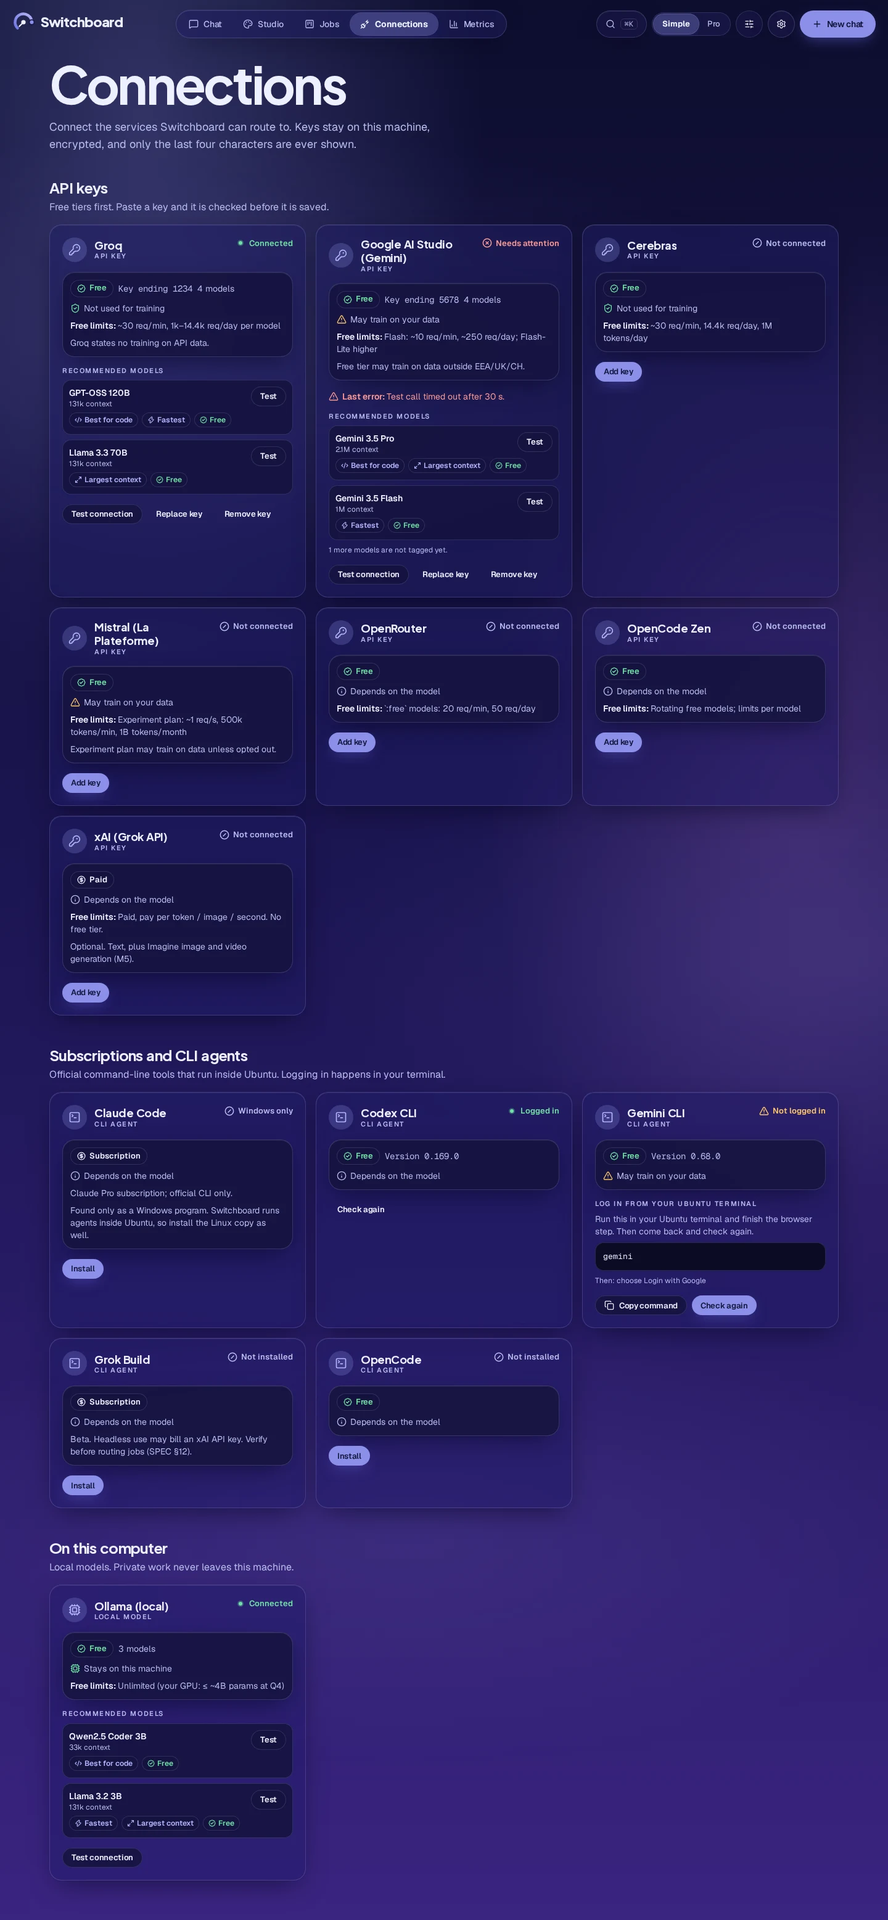
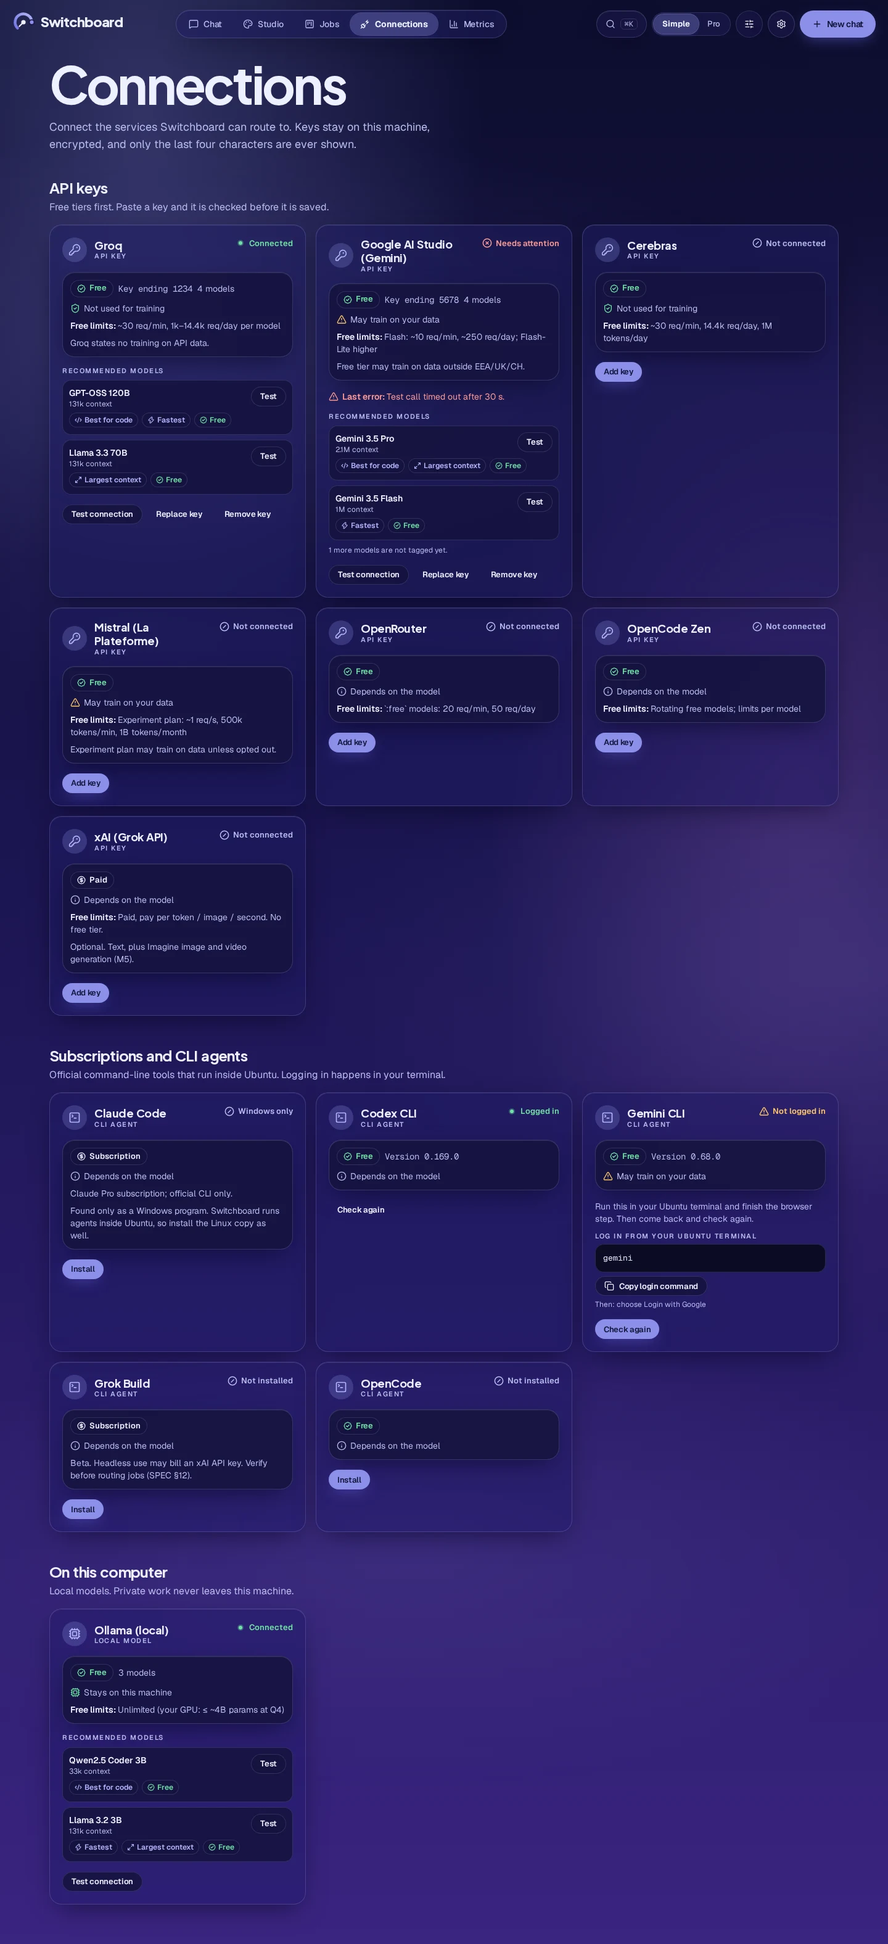
M1b follow-up: install progress UI states, tests, gallery section, baselines, docs
- gallery install-progress section (running/success/failure) + visual baselines; regenerated connections/toast/skeleton
- Playwright: stages, one progress bar, collapsed Details, success + Done, PATH step, failure tail
- gallery-only kit components lazy-loaded to stay under the JS budget
- docs/m1a.md (opencode status verified), docs/m1b.md (log format, PATH), PROGRESS.md

diff --git a/apps/portal/tests/connections.spec.ts b/apps/portal/tests/connections.spec.ts
@@ -70,16 +70,63 @@ test("install OpenCode through the UI with confirmation, then see the login step
   await expect(page.getByRole("article", { name: "OpenCode", includeHidden: true }).getByText("Not installed")).toBeVisible();
 
   await dialog.getByRole("button", { name: "Install OpenCode" }).click();
-  const log = dialog.getByRole("log", { name: "Install log" });
-  await expect(log).toContainText("Installing opencode 1.19.6");
-  await expect(dialog.getByText("OpenCode is installed.")).toBeVisible();
-  await dialog.getByRole("button", { name: "Close" }).first().click();
 
-  // The card flipped, and the login step (a terminal command, never an in-portal OAuth) is shown.
+  // Stages above one progress bar; the raw log is tucked into a collapsed "Details".
+  const stages = dialog.getByRole("list", { name: "Install stages" });
+  await expect(stages.getByRole("listitem")).toHaveText(["Downloading", "Installing", "Verifying", "Done"]);
+  await expect(dialog.getByRole("progressbar", { name: "Download progress" })).toBeVisible();
+  await expect(dialog.locator("details")).not.toHaveAttribute("open", "");
+  await expect(dialog.getByRole("button", { name: "Stop install" })).toBeVisible();
+
+  // Success: a check, the version, a "Done" button (no more "Stop install") and the login step.
+  await expect(dialog.getByText("OpenCode 1.19.6 installed")).toBeVisible();
+  await expect(dialog.getByRole("button", { name: "Stop install" })).toHaveCount(0);
+  await expect(dialog.getByRole("progressbar")).toHaveCount(0);
+  await expect(dialog.getByRole("heading", { name: "Log in next" })).toBeVisible();
+  await expect(dialog.getByText("opencode auth login", { exact: true }).first()).toBeVisible();
+
+  // opencode lands off a new terminal's PATH: the one-line fix comes first, then login, then the full path.
+  await expect(dialog.getByText("1. Add opencode to your PATH")).toBeVisible();
+  await expect(dialog.getByText(`echo 'export PATH="$HOME/.opencode/bin:$PATH"' >> ~/.bashrc && source ~/.bashrc`)).toBeVisible();
+  await expect(dialog.getByText("~/.opencode/bin/opencode auth login", { exact: true })).toBeVisible();
+  for (const name of ["Copy PATH command", "Copy login command", "Copy full-path command"]) {
+    await expect(dialog.getByRole("button", { name })).toBeVisible();
+  }
+
+  // Details holds the raw log, with the progress redraws collapsed into a single line.
+  await dialog.locator("summary").filter({ hasText: "Details" }).click();
+  const log = dialog.getByRole("log", { name: "Install log" });
+  await expect(log).toContainText("Verifying checksum… ok");
+  const text = (await log.innerText()).split("\n");
+  expect(text.filter((l) => l.includes("%"))).toHaveLength(1);
+
+  await dialog.getByRole("button", { name: "Done" }).click();
+
+  // The card flipped, and shows the same login steps (a terminal command, never an in-portal OAuth).
   await expect(c.getByText("Not logged in")).toBeVisible();
-  await expect(c.getByText("opencode auth login")).toBeVisible();
+  await expect(c.getByText("opencode auth login", { exact: true }).first()).toBeVisible();
   await c.getByRole("button", { name: "Check again" }).click();
   await expect(c.getByText(/Still not logged in/)).toBeVisible();
+});
+
+test("a failed install shows an error summary and the last 20 lines", async ({ page }) => {
+  await page.goto("/connections");
+  await ready(page);
+  await card(page, "Claude Code").getByRole("button", { name: "Install" }).click();
+  const dialog = page.getByRole("dialog", { name: "Install Claude Code" });
+  await dialog.getByRole("button", { name: "Install Claude Code" }).click();
+
+  const alert = dialog.getByRole("alert");
+  await expect(alert).toContainText("The install failed");
+  await expect(alert).toContainText("Install failed: could not download claude 2.1.311");
+  await expect(alert.getByText("Last 20 lines")).toBeVisible();
+  const tail = (await alert.locator("pre").innerText()).split("\n");
+  expect(tail).toHaveLength(20);
+  expect(tail.at(-1)).toContain("Install failed");
+  await expect(dialog.getByText("OpenCode 1.19.6 installed")).toHaveCount(0);
+  await expect(dialog.getByRole("button", { name: "Review again" })).toBeVisible();
+  await dialog.getByRole("button", { name: "Close" }).first().click();
+  await expect(card(page, "Claude Code").getByText("Windows only")).toBeVisible(); // nothing changed
 });
 
 test("the browser never receives the admin token", async ({ page }) => {

diff --git a/apps/portal/src/app/dev/components/Gallery.tsx b/apps/portal/src/app/dev/components/Gallery.tsx
@@ -3,13 +3,10 @@
 import * as React from "react";
 import dynamic from "next/dynamic";
 import { Bot } from "lucide-react";
+import { ProviderCard } from "@/components/kit/ProviderCard";
 import { GlassPanel } from "@/components/kit/GlassPanel";
 import { PillTabs } from "@/components/kit/PillTabs";
 import { Dial } from "@/components/kit/Dial";
-import { StatCard } from "@/components/kit/StatCard";
-import { RouteChip } from "@/components/kit/RouteChip";
-import { ProviderCard } from "@/components/kit/ProviderCard";
-import { JobCard } from "@/components/kit/JobCard";
 import { CostBadge } from "@/components/kit/CostBadge";
 import { ExplainPopover } from "@/components/kit/ExplainPopover";
 import { Composer } from "@/components/kit/Composer";
@@ -18,8 +15,15 @@ import { Skeleton } from "@/components/kit/Skeleton";
 import { EmptyState } from "@/components/kit/EmptyState";
 import { StatusBadge } from "@/components/kit/StatusBadge";
 import { Logo } from "@/components/kit/Logo";
+// Gallery-only components load on demand so the gallery stays under the first-load JS budget.
+const StatCard = dynamic(() => import("@/components/kit/StatCard").then((m) => m.StatCard));
+const RouteChip = dynamic(() => import("@/components/kit/RouteChip").then((m) => m.RouteChip));
+const JobCard = dynamic(() => import("@/components/kit/JobCard").then((m) => m.JobCard));
 // Below the fold and only used here (and in the wizard): keeps it out of the gallery's first-load JS.
 const ColumnsArt = dynamic(() => import("@/components/kit/ColumnsArt").then((m) => m.ColumnsArt));
+// Only used here and in the install dialog: keep it (and LoginSteps) out of the gallery's first-load JS.
+const InstallProgress = dynamic(() => import("@/components/connections/InstallProgress").then((m) => m.InstallProgress));
+const LoginSteps = dynamic(() => import("@/components/connections/LoginSteps").then((m) => m.LoginSteps));
 import { Button } from "@/components/ui/button";
 import { strings, t } from "@/i18n/strings";
 
@@ -210,6 +214,52 @@ export function Gallery() {
               <Composer state={s} defaultValue={s === "empty" ? "" : g.composerText} disabledReason={t("home.readOnlyNote")} />
             </Cell>
           ))}
+        </div>
+      </Section>
+
+      <Section id="install-progress" title={g.sections.installProgress}>
+        <div className="grid gap-(--gap) xl:grid-cols-3">
+          <Cell label={g.installRunning}>
+            <GlassPanel tone="strong">
+              <InstallProgress
+                name="OpenCode"
+                version="1.19.6"
+                phase="running"
+                entries={[
+                  { t: "Downloading opencode 1.19.6", r: false, p: null },
+                  { t: `${"#".repeat(45)}${" ".repeat(27)} 62.0%`, r: true, p: 62 },
+                ]}
+              />
+            </GlassPanel>
+          </Cell>
+          <Cell label={g.installSuccess}>
+            <GlassPanel tone="strong">
+              <InstallProgress
+                name="OpenCode"
+                version="1.19.6"
+                phase="ok"
+                entries={g.installLog.split("\n").map((t) => ({ t, r: false, p: null }))}
+                next={
+                  <LoginSteps
+                    command="opencode auth login"
+                    binPath="~/.opencode/bin/opencode"
+                    binDir="~/.opencode/bin"
+                    onUserPath={false}
+                  />
+                }
+              />
+            </GlassPanel>
+          </Cell>
+          <Cell label={g.installFailure}>
+            <GlassPanel tone="strong">
+              <InstallProgress
+                name="OpenCode"
+                version="1.19.6"
+                phase="failed"
+                entries={g.installFailLog.split("\n").map((t) => ({ t, r: false, p: null }))}
+              />
+            </GlassPanel>
+          </Cell>
         </div>
       </Section>
 

diff --git a/apps/portal/tests/a11y.spec.ts b/apps/portal/tests/a11y.spec.ts
@@ -5,8 +5,11 @@ import { ready } from "./helpers";
 const schemes = ["light", "dark"] as const;
 const pages = ["/", "/dev/components", "/chat", "/settings", "/connections", "/welcome?step=1", "/welcome?step=2", "/welcome?step=3", "/welcome?step=4", "/welcome?step=5"];
 
-async function audit(page: Page, label: string) {
-  const results = await new AxeBuilder({ page })
+/** `scope`: audit only this part of the page (a modal: the page behind it is inert and dimmed on purpose). */
+async function audit(page: Page, label: string, scope?: string) {
+  const builder = new AxeBuilder({ page });
+  if (scope) builder.include(scope);
+  const results = await builder
     .withTags(["wcag2a", "wcag2aa", "wcag21a", "wcag21aa", "wcag22aa", "best-practice"])
     .analyze();
   const bad = results.violations.filter((v) => v.impact === "serious" || v.impact === "critical");
@@ -60,7 +63,7 @@ for (const scheme of schemes) {
       await ready(page);
       await page.getByRole("article", { name: "Grok Build" }).getByRole("button", { name: "Install" }).click();
       await expect(page.getByRole("dialog").getByText("Never uses sudo.")).toBeVisible();
-      await audit(page, `install dialog ${scheme}`);
+      await audit(page, `install dialog ${scheme}`, '[role="dialog"]');
     });
 
     test("appearance menu and explain popover open", async ({ page }) => {

diff --git a/apps/portal/tests/visual.spec.ts b/apps/portal/tests/visual.spec.ts
@@ -15,6 +15,7 @@ const sections = [
   "status-badge",
   "explain-popover",
   "composer",
+  "install-progress",
   "toast",
   "skeleton",
   "empty-state",

diff --git a/docs/PROGRESS.md b/docs/PROGRESS.md
@@ -124,8 +124,16 @@
 - **Wizard** (`/welcome`): name + Simple/Pro → goals (incl. Writing/content) → connect only needed providers → preset → finish with a "Try it" placeholder; skippable, resumable on any device (state in `system_meta`, `GET/PUT /onboarding`); first run redirects `/` to the wizard. Goal → provider mapping is in `config/providers.yaml` (`goals:`); `xai` added as a paid API-key provider; claude-code, grok-build and xai are labelled paid.
 - **Home:** four quick-start chips fill the composer (route in M2). **Carry-overs done:** Dial loading is a shimmering ring; ColumnsArt redrawn with theme-token fills; gallery user-facing text moved to `strings.ts`; `cacheComponents` re-evaluated and left **off** (reasons in `next.config.ts` and docs/m1b.md); dev/start bind `127.0.0.1`.
 - **Gemini:** swept the catalog with `scripts/gemini-sweep.py` (details in docs/m1b.md). The old pin `gemini-3.5-flash` answered 0/3 (timeout, 503s). `smart-free` is now pinned to `gemini-3.1-flash-lite` (3/3, ~1.2 s, not a preview; `gemini-3-flash-preview` also went 3/3 if you want a stronger model), with `num_retries: 0` so fallback to local takes one 30 s timeout instead of two. Verified live. Three samples per model: a spot check.
-- Checks: router 45 pytest (15 new), hostprobe 36 unittest (21 new), ruff clean; portal 24 unit, 96 Playwright (axe serious/critical none on `/connections`, every wizard step, key form and install dialog, both themes; visual baselines regenerated, 46 now); Lighthouse (mobile profile) perf 98–99, a11y 100, best-practices 100 on gallery, Home, Connections and a wizard step in both themes; first-load JS 190–195 KB gzip on product routes (`/dev/components` 199.9 KB, at the edge of the 200 KB budget).
+- Checks: router 45 pytest (15 new), hostprobe 36 unittest (21 new; 52 after the follow-up below), ruff clean; portal 24 unit (33 after the follow-up), 96 Playwright (99 after) (axe serious/critical none on `/connections`, every wizard step, key form and install dialog, both themes; visual baselines regenerated, 46 now); Lighthouse (mobile profile) perf 98–99, a11y 100, best-practices 100 on gallery, Home, Connections and a wizard step in both themes; first-load JS 190–195 KB gzip on product routes (`/dev/components` 199.9 KB, at the edge of the 200 KB budget).
 - Screenshots (fixture data, no real key suffixes): `docs/screens/connections-{day,dusk}.webp` and `welcome-{1..5}-{day,dusk}.webp`.
+
+## M1b follow-up: login-status verification, install log UX, PATH
+
+- **Login-status commands (A):** OpenCode 1.19.6 (installed through the portal) is the only CLI installed in WSL, so the only one verified. Real `opencode auth list` prints `1 credentials` / `0 credentials` with ANSI codes and box-drawing characters even under `NO_COLOR=1`; the existing parser is correct and now has tests built from the recorded bytes (docs/m1a.md table updated). claude, codex and gemini exist only as Windows copies and grok isn't installed, so `claude auth status`, `codex login status` (already confirmed via `--help`), the gemini and grok credential-file paths stay unverified until each is installed in WSL.
+- **Install log (B):** root cause of one-line-per-redraw: Python text mode turned every `\r` into `\n`. hostprobe now reads bytes and emits `{t, r, p}` entries (redraws replace in place, ANSI stripped, percent parsed, redraws throttled). The dialog shows stages (Downloading → Installing → Verifying → Done), one progress bar, and the raw log in a collapsed Details section; success shows "OpenCode 1.19.6 installed", the button changes from Stop install to Done, the card refreshes and **Log in next** appears; failure shows an error summary and the last 20 lines. Tests use a recorded real `curl -#` capture. Gallery section `install-progress` (running / success / failure) gives the visual baselines; Connections, toast and skeleton baselines regenerated (login layout and a new gallery section above them).
+- **PATH (C):** hostprobe reports `bin_path`, `bin_dir` and `on_user_path` (one fixed `bash -lic` call, home-relative paths). When a new terminal can't find the binary, the dialog and cards show a one-line PATH fix with Copy, then the login command, then the login command by full path. Not built: appending to `~/.bashrc` from the portal with a confirmation (another hostprobe write action); the copyable line is the only path. Your OpenCode reports on-path because `~/.bashrc` line 122 already adds it.
+- Checks: hostprobe 52 unittest, router 45 pytest, ruff clean; portal 33 unit, 99 Playwright (axe, both themes; 48 visual baselines, stable over repeated runs), eslint clean; Lighthouse perf 97-100 / a11y 99-100 / best-practices 100; first-load JS 190-195 KB on product routes, `/dev/components` 199.4 KB (gallery-only kit components are now lazy-loaded to stay under the cap; it is still the closest to the 200 KB budget). The install-dialog axe test audits the dialog itself, because axe scores the page behind the dimmed modal overlay as low-contrast (the page is audited un-dimmed elsewhere).
+- Still open: verify the other CLIs' status commands as they're installed (see "Carry-over to M2").
 
 ## Carry-over to M2
 

diff --git a/docs/m1b.md b/docs/m1b.md
@@ -38,7 +38,7 @@ cd apps/portal
 npm run build
 npx playwright test               # axe (both themes), shell, connections, wizard, visual baselines
 npm run test:bundle               # the token check above
-npm test                          # unit: recommender, goal mapping, design tokens
+npm test                          # unit: recommender, goal mapping, install-log parsing, design tokens
 npm run budget                    # < 200 KB gzip first-load JS per route
 PORTAL_DATA=fixture npx next start -H 127.0.0.1 -p 3210 &  npm run lighthouse && npm run screens
 ```
@@ -62,7 +62,9 @@ Untagged models never get a badge and are counted ("N more models are not tagged
 
 **CLI cards:** installed / Windows-only / not installed / logged in / unknown (hostprobe down).
 
-- **Install** → the router asks hostprobe for a *plan* → the dialog shows the source URL (and official docs link), pinned version, the installer's SHA-256, the exact commands, what it changes, and "never uses sudo" → **Install** only after you confirm → streamed log → the card flips. Nothing runs before the confirm click.
+- **Install** → the router asks hostprobe for a *plan* → the dialog shows the source URL (and official docs link), pinned version, the installer's SHA-256, the exact commands, what it changes, and "never uses sudo" → **Install** only after you confirm → progress → the card flips. Nothing runs before the confirm click.
+- **Progress, not a wall of text:** stages (Downloading → Installing → Verifying → Done), **one** progress bar with a percentage while a download is live, and the raw output in a collapsed **Details** section. On success: a check and "OpenCode 1.19.6 installed", the button changes from **Stop install** to **Done**, the card refreshes, and a **Log in next** step appears. On failure: an error summary plus the last 20 lines, with **Review again**.
+- **PATH:** installers that don't edit your shell profile (OpenCode is run with `--no-modify-path`) leave the binary where a new terminal can't find it ("command not found"). After an install hostprobe reports the binary's directory and whether a new terminal's PATH contains it. If not, **Log in next** (and the card) show, in order: a one-line fix to copy (`echo 'export PATH="$HOME/.opencode/bin:$PATH"' >> ~/.bashrc && source ~/.bashrc`), the login command, and the login command by full path as a fallback. The portal never edits `~/.bashrc` itself; offering that with a confirmation would add another write action to hostprobe, so it is deliberately not done.
 - **Log in** is never run by the portal. The card shows the exact command for your Ubuntu terminal (with **Copy command**) and **Check again** (a fresh probe that bypasses hostprobe's 30 s cache).
 
 ## Install: how it is kept safe
@@ -77,6 +79,10 @@ hostprobe (`services/hostprobe/hostprobe.py`) gained the only actions it has:
 | `POST /install/jobs/{id}/cancel` | stops the process group |
 
 No request field reaches a command: the only input is a `plan_id` that selects a stored plan. Never a shell, never `curl | bash`. A `sudo` shim first on PATH fails any `sudo` call; the service refuses to install as root; the PATH is the clean Linux one (no `/mnt/*`); output is stripped of control characters and token-shaped strings; 10-minute limit. Tests cover single-use plans, expiry, wrong-CLI plan ids, concurrent installs, cancel, timeout, sudo, root refusal, npm prefix outside `$HOME`, and that every table entry is `https`, pinned, host-listed and free of `sudo`/`unsafe-perm`.
+
+### Install log format
+
+hostprobe reads the installer's output as **bytes** and splits on `\r` and `\n` itself. (Python's text mode turns every `\r` into `\n`, which is why curl's progress bar used to print one new line per redraw.) Each SSE `log` event is `{t, r, p}`: `t` the text (ANSI and control characters stripped, token-shaped strings masked), `r` true when the line was redrawn (the next entry replaces it, as a terminal would), `p` the download percentage when the line is progress output (`#### 45.2%` or curl's table row). Redraws are throttled to a new whole percent or 250 ms, so a large download can't flood the log. The log is append-only, so a reconnecting browser resumes by index. The portal collapses redraws (`lib/install-log.ts`), derives the stage and percentage from the entries, and keeps tests against a recorded real `curl -#` capture (`services/hostprobe/tests/fixtures/curl_progress.bin`, assembled into `apps/portal/src/lib/fixtures/install-log.entries.json`).
 
 ### Install methods (verified 2026-11-17, from each installer script)
 

diff --git a/docs/m1a.md b/docs/m1a.md
@@ -137,7 +137,7 @@ curl -s -X POST -H "$A" $R/catalog/refresh
 The router runs in Docker and can't execute WSL binaries, so a small stdlib-only service in WSL does it. Rules (M1a review):
 
 - **Allowlist only.** The argv for each CLI (`--version` plus one auth-status command) is hard-coded in `services/hostprobe/hostprobe.py`. No request data reaches a command, and nothing runs through a shell. M1a had only `GET /cli` and `GET /health`; M1b adds the install endpoints ([docs/m1b.md](m1b.md)).
-- **Minimal output.** It returns `installed`, `version`, `logged_in`, `windows_only` and `login_method`. Command output is reduced to a version string or a boolean, then discarded. Credential files are checked with `stat` only; they are never opened.
+- **Minimal output.** It returns `installed`, `version`, `logged_in`, `windows_only` and `login_method`, plus (M1b) `bin_path`, `bin_dir` (home-relative, e.g. `~/.opencode/bin`) and `on_user_path` (whether a new terminal's PATH contains that directory, from one fixed `bash -lic` call). Command output is reduced to a version string or a boolean, then discarded. Credential files are checked with `stat` only; they are never opened.
 - **Auth and limits.** Every request needs `X-Probe-Token`, compared in constant time. The token is in `deploy/.env`; hostprobe reads only that one variable from the file. It listens on `127.0.0.1` only. Each command has a 5 s timeout. Results are cached for 30 s. Rate limits: 6 probes/min, 60 requests/min.
 - **Resolution.** Binaries are looked up on a clean Linux PATH (nvm bin, `~/.local/bin`, `~/.npm-global/bin`, `~/.bun/bin`, `~/.opencode/bin`, `~/.grok/bin`, `/usr/local/bin`, `/usr/bin`), never under `/mnt/*`. A CLI found only as a Windows install is reported as `windows_only`.
 - **Router side.** If hostprobe is down, the router stays healthy and CLI rows show `unknown`.
@@ -149,7 +149,7 @@ The router runs in Docker and can't execute WSL binaries, so a small stdlib-only
 | codex | `codex --version` | `codex login status` ("Logged in") | Yes, `codex login --help` lists `status` |
 | gemini | `gemini --version` | `~/.gemini/oauth_creds.json` exists (no status command) | Not yet (no Linux install); known default credential path |
 | grok | `grok --version` | `~/.grok/auth.json` or `~/.config/grok/auth.json` exists | No; re-check after installing Grok Build |
-| opencode | `opencode --version` | `opencode auth list` ("N credentials", N > 0); otherwise `~/.local/share/opencode/auth.json` | Not yet (no Linux install); output format checked by unit test only |
+| opencode | `opencode --version` | `opencode auth list` ("N credentials", N > 0); otherwise `~/.local/share/opencode/auth.json` | **Yes, 2026-11-17 (M1b), opencode 1.19.6 installed through the portal.** Real output is `1 credentials` when logged in and `0 credentials` when not, wrapped in ANSI codes and box-drawing characters even with `NO_COLOR=1`; the parser handles both (tests use the recorded bytes). Counts credentials for any provider, not only OpenCode Zen. |
 
 Debug one probe locally (prints JSON and starts no server):
 
